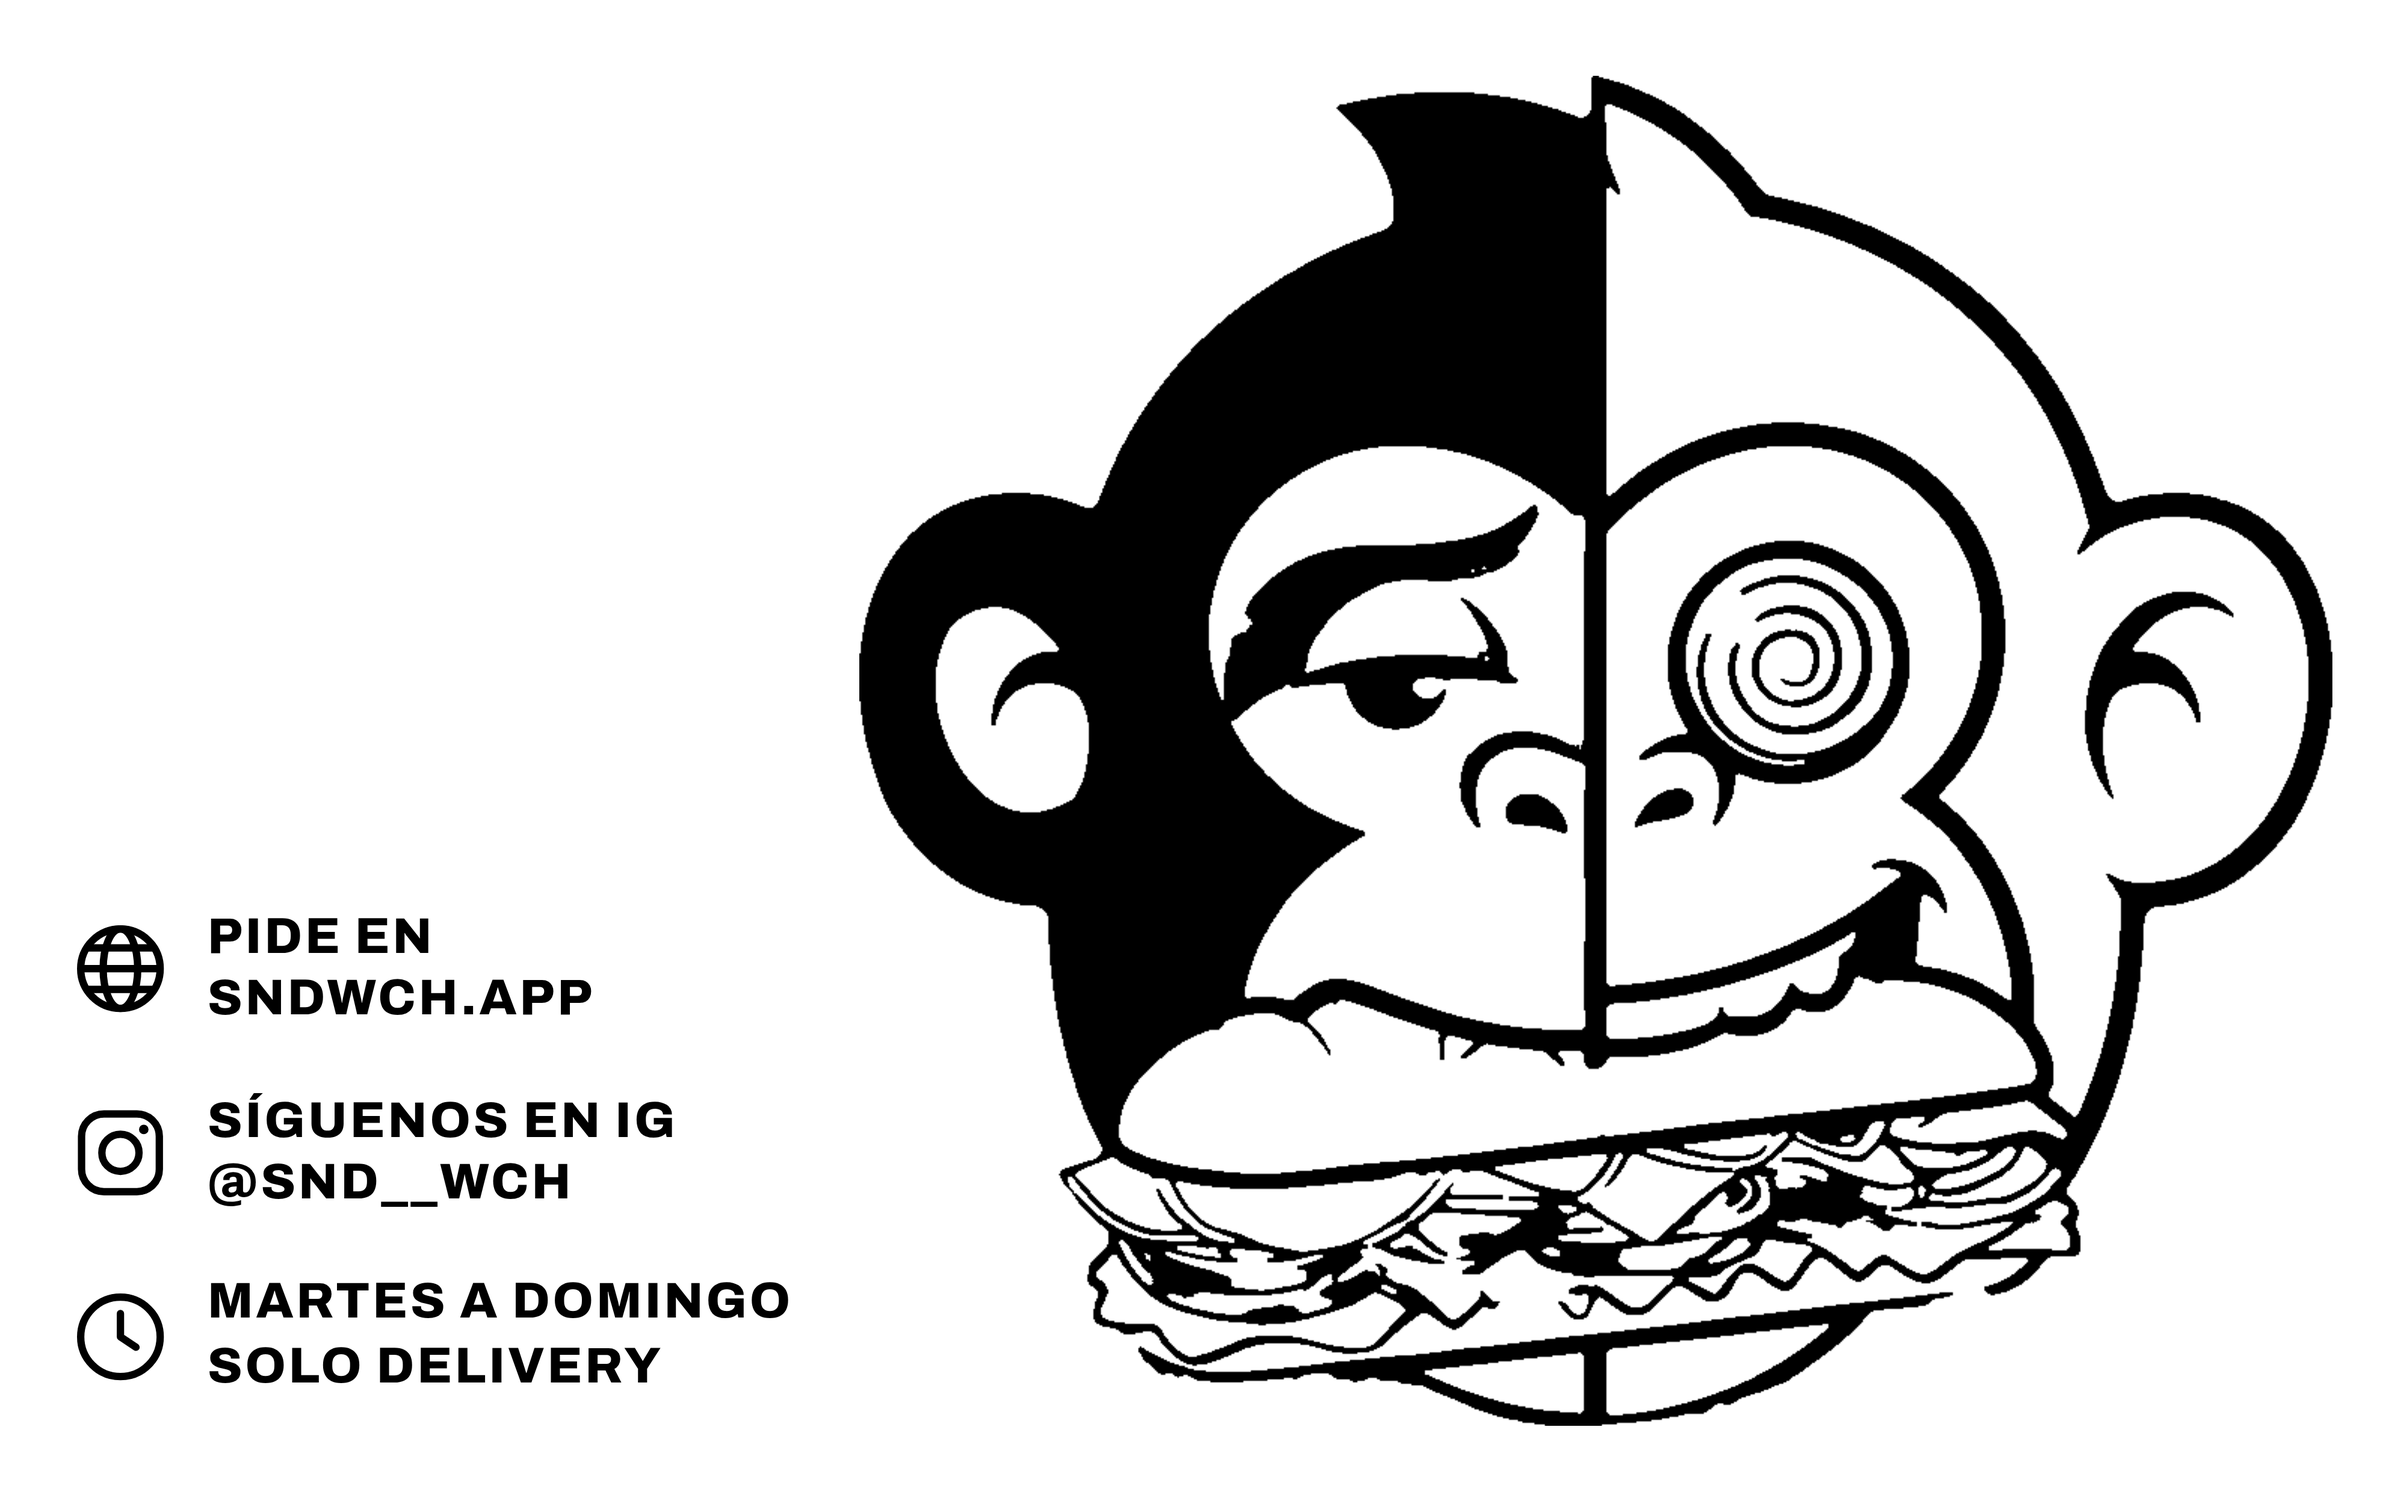
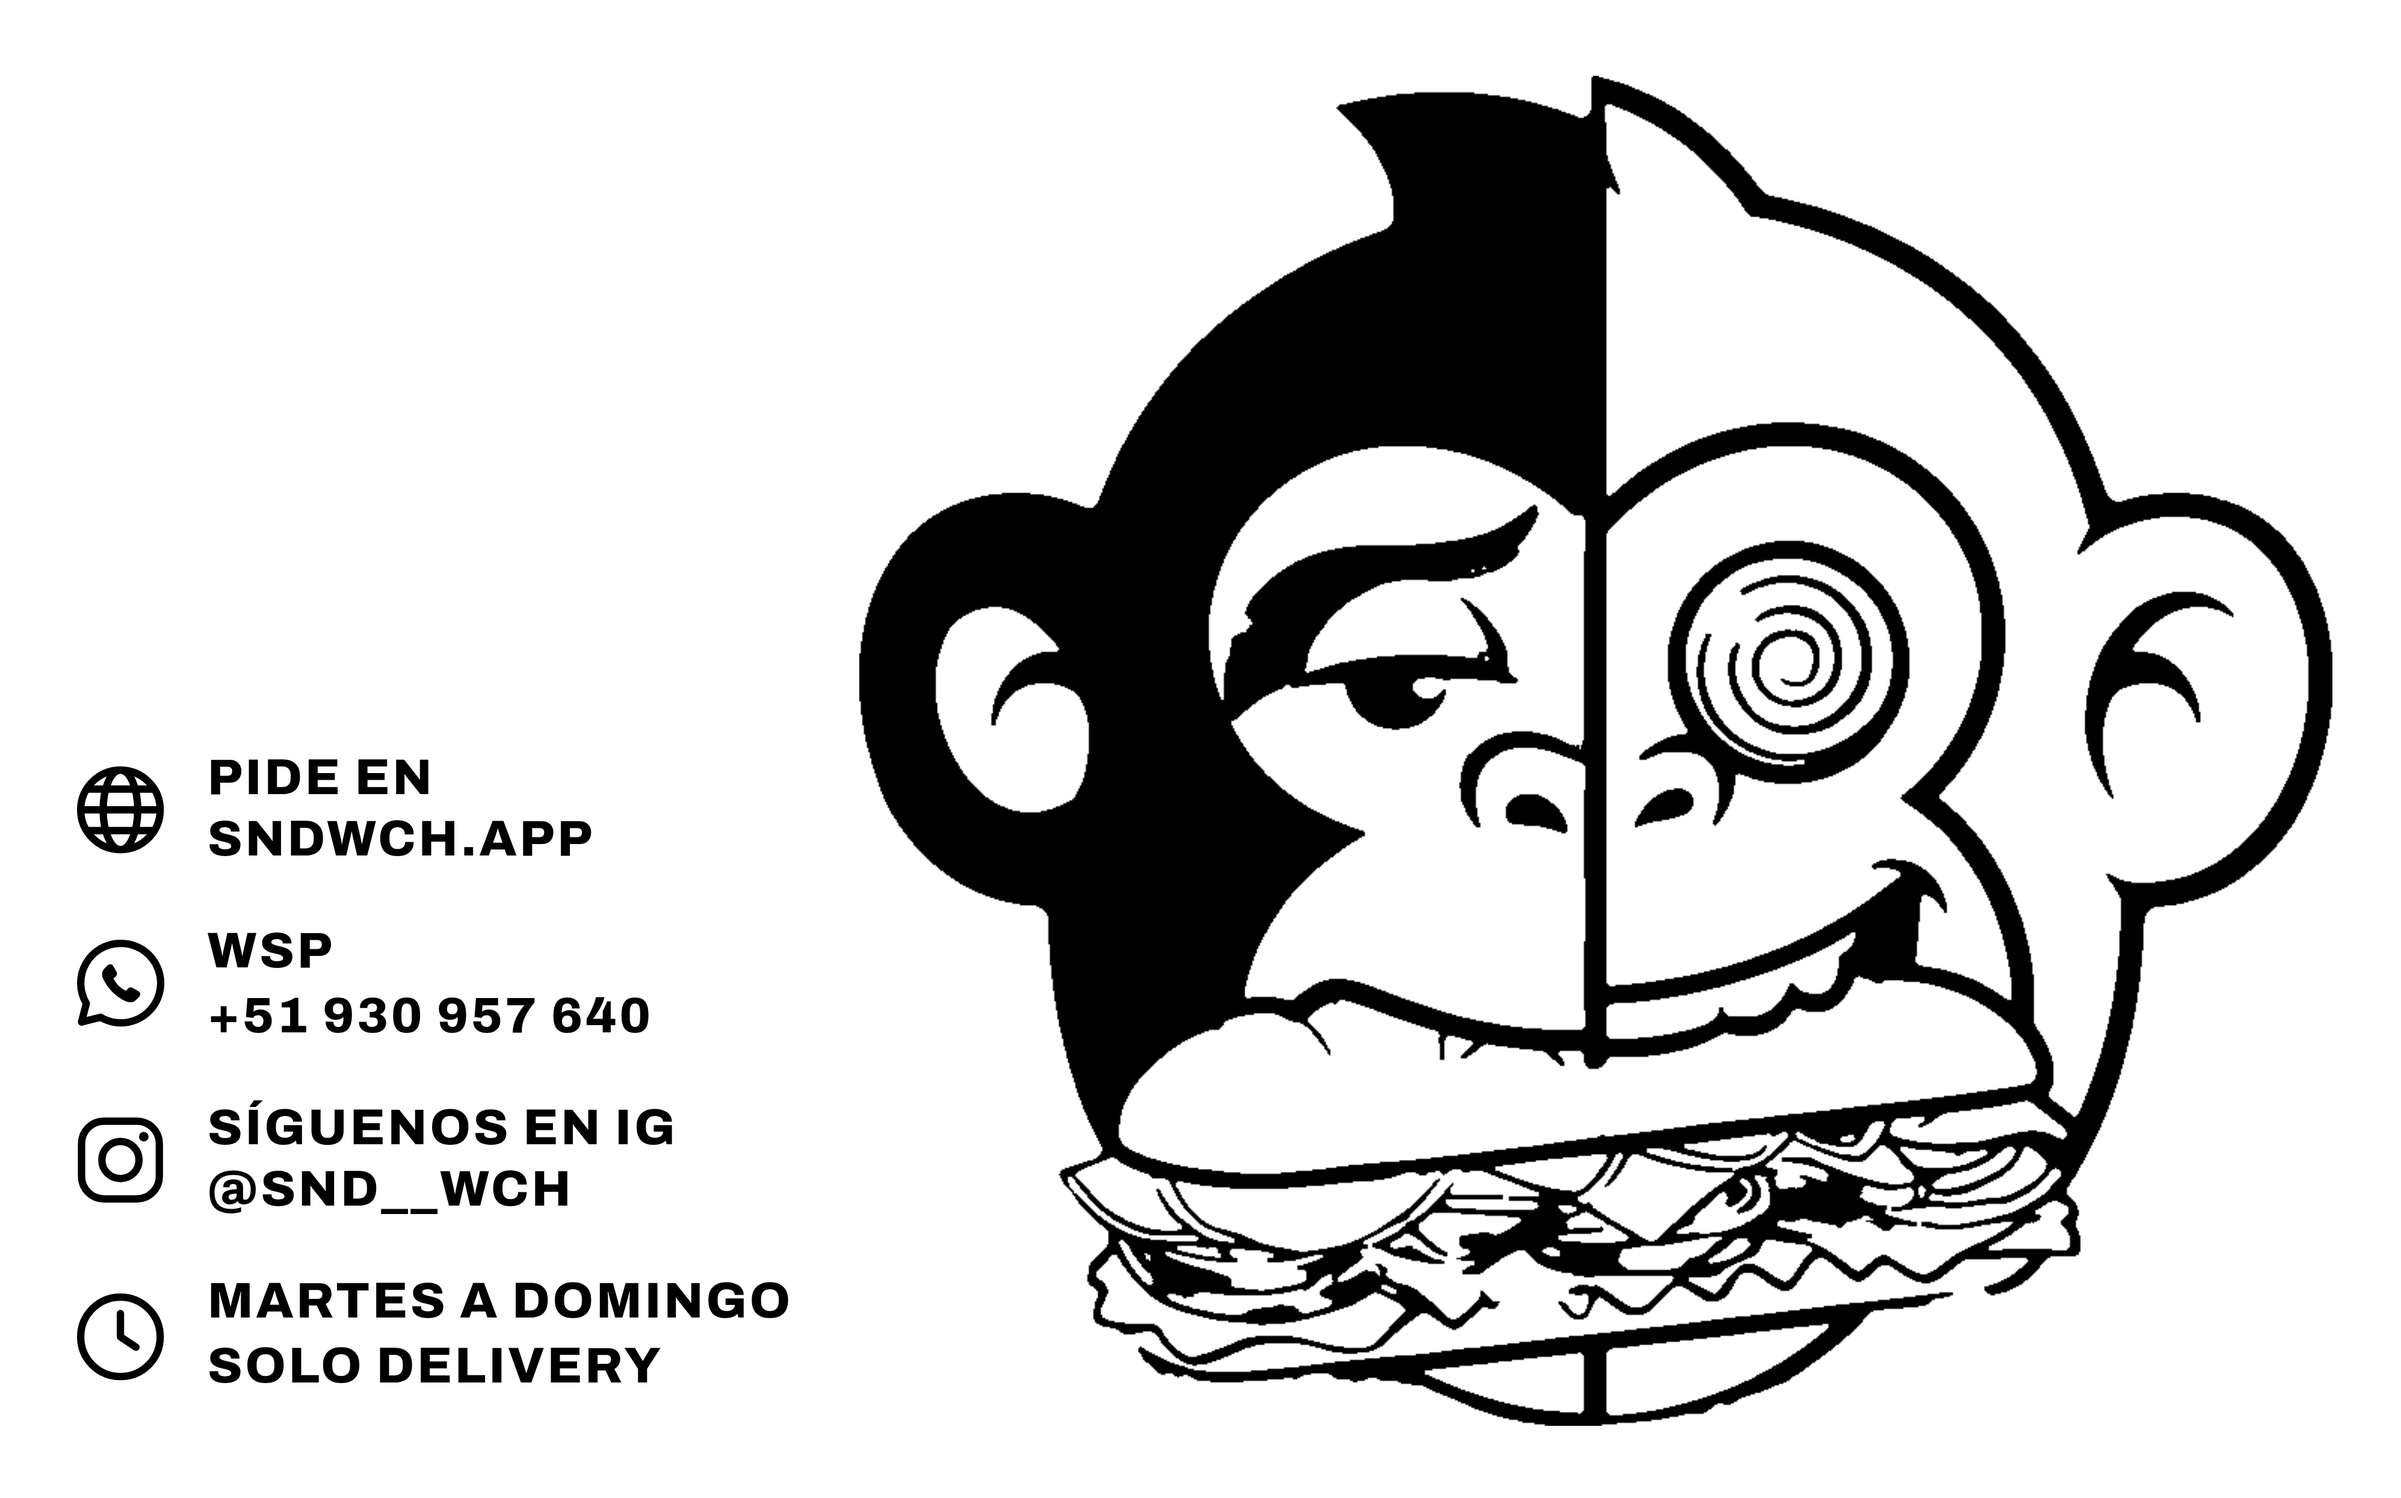
Bolsa cartel: el WhatsApp público como WSP, leído de la app
Claude-Session: https://claude.ai/code/session_01NCVgixMFGDjTdiWThGTz7g

Changed region(s): [[0.0311, 0.4948, 0.2797, 0.804], [0.1554, 0.804, 0.1865, 0.8349]]

diff --git a/docs/marketing/bolsa/README.md b/docs/marketing/bolsa/README.md
@@ -27,8 +27,11 @@ debajo, el personaje grande abajo a la derecha y una columna de datos con ícono
   se escribe como en la web y en Instagram.
 - **«Alguien pidió bien.»**, la frase de SANDO, en su itálica.
 - **La cara de los hermanos** a una tinta, grande, abajo a la derecha.
-- **Los datos, solo los reales:** pide en sndwch.app · síguenos en IG @snd__wch · martes a domingo,
-  solo delivery. Sin dirección (no hay local) ni teléfono (no hay uno público).
+- **Los datos, solo los reales:** pide en sndwch.app · WSP +51 930 957 640 · síguenos en IG
+  @snd__wch · martes a domingo, solo delivery. Sin dirección (no hay local). El WhatsApp es el
+  mismo que la app muestra en soporte y comprobantes, y el script lo lee de ahí (`var WA` en
+  `src/app/01-catalogo-y-estado.ts`): si cambia, se regenera y el sello sale con el nuevo
+  (dueño: «si hay WhatsApp público puedes ponerlo como wsp»).
 - **Dos sellos** (`sellos/7-cartel-cabecera-176x72.pdf` y `sellos/7-cartel-pie-176x110.pdf`): la
   cabecera y el pie. Si algún día se imprime la bolsa, el mismo arte sirve a una tinta.
 - El cierre redondo arriba y el sticker del QR atrás (o la tira de la opción B, que también cabe).
